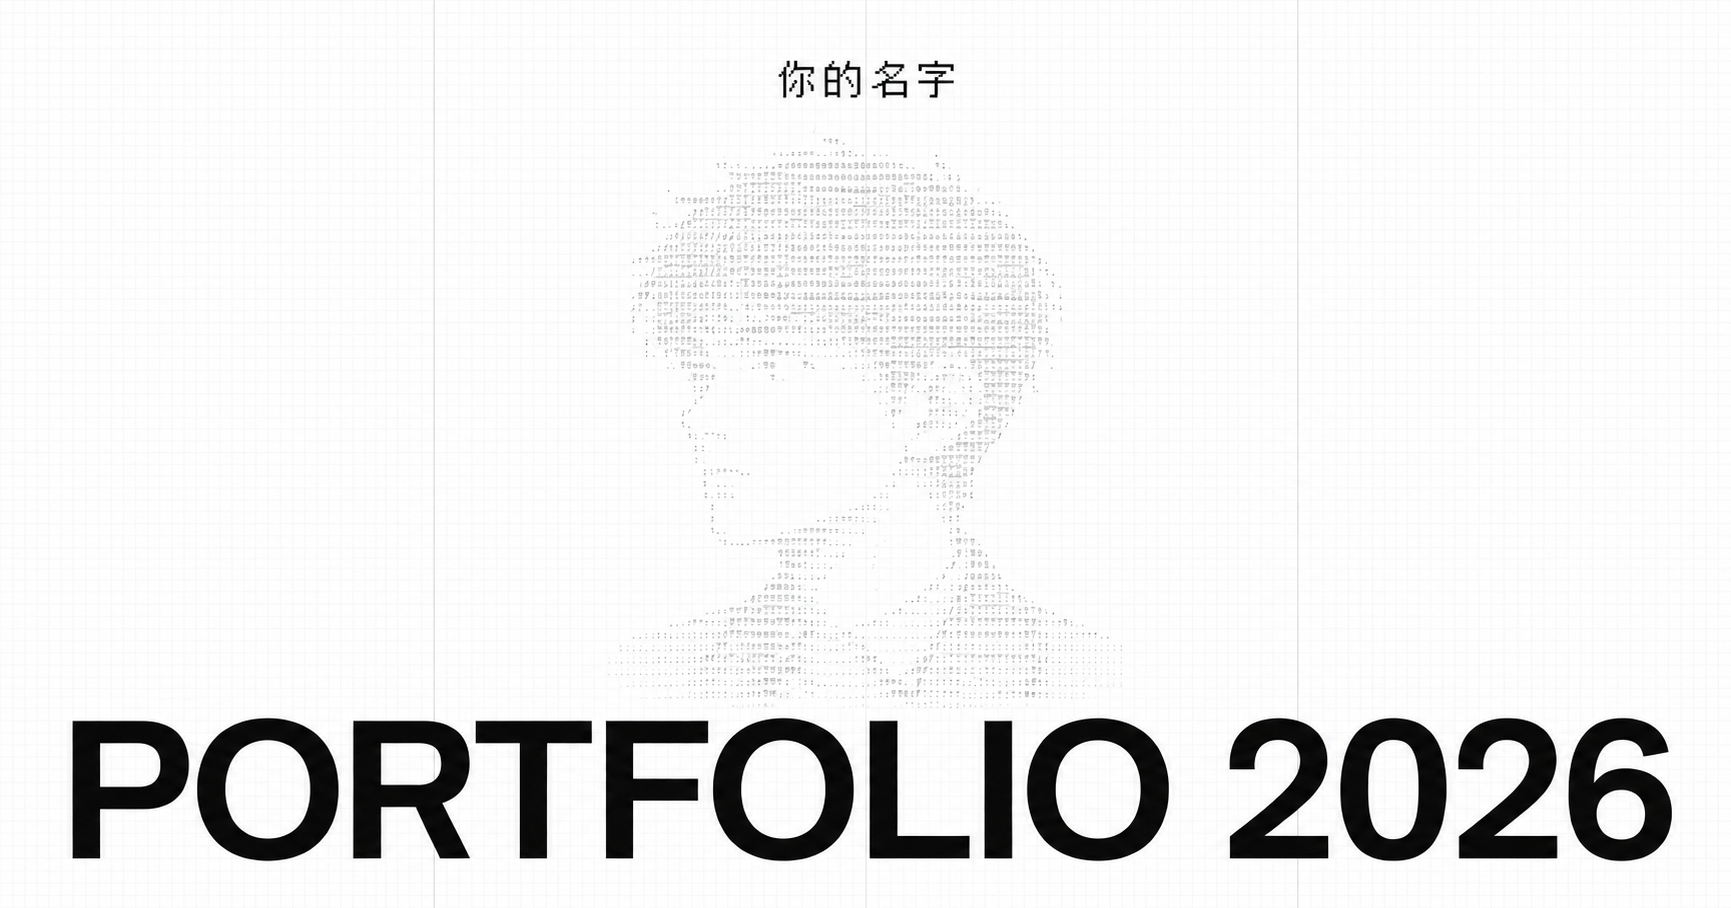
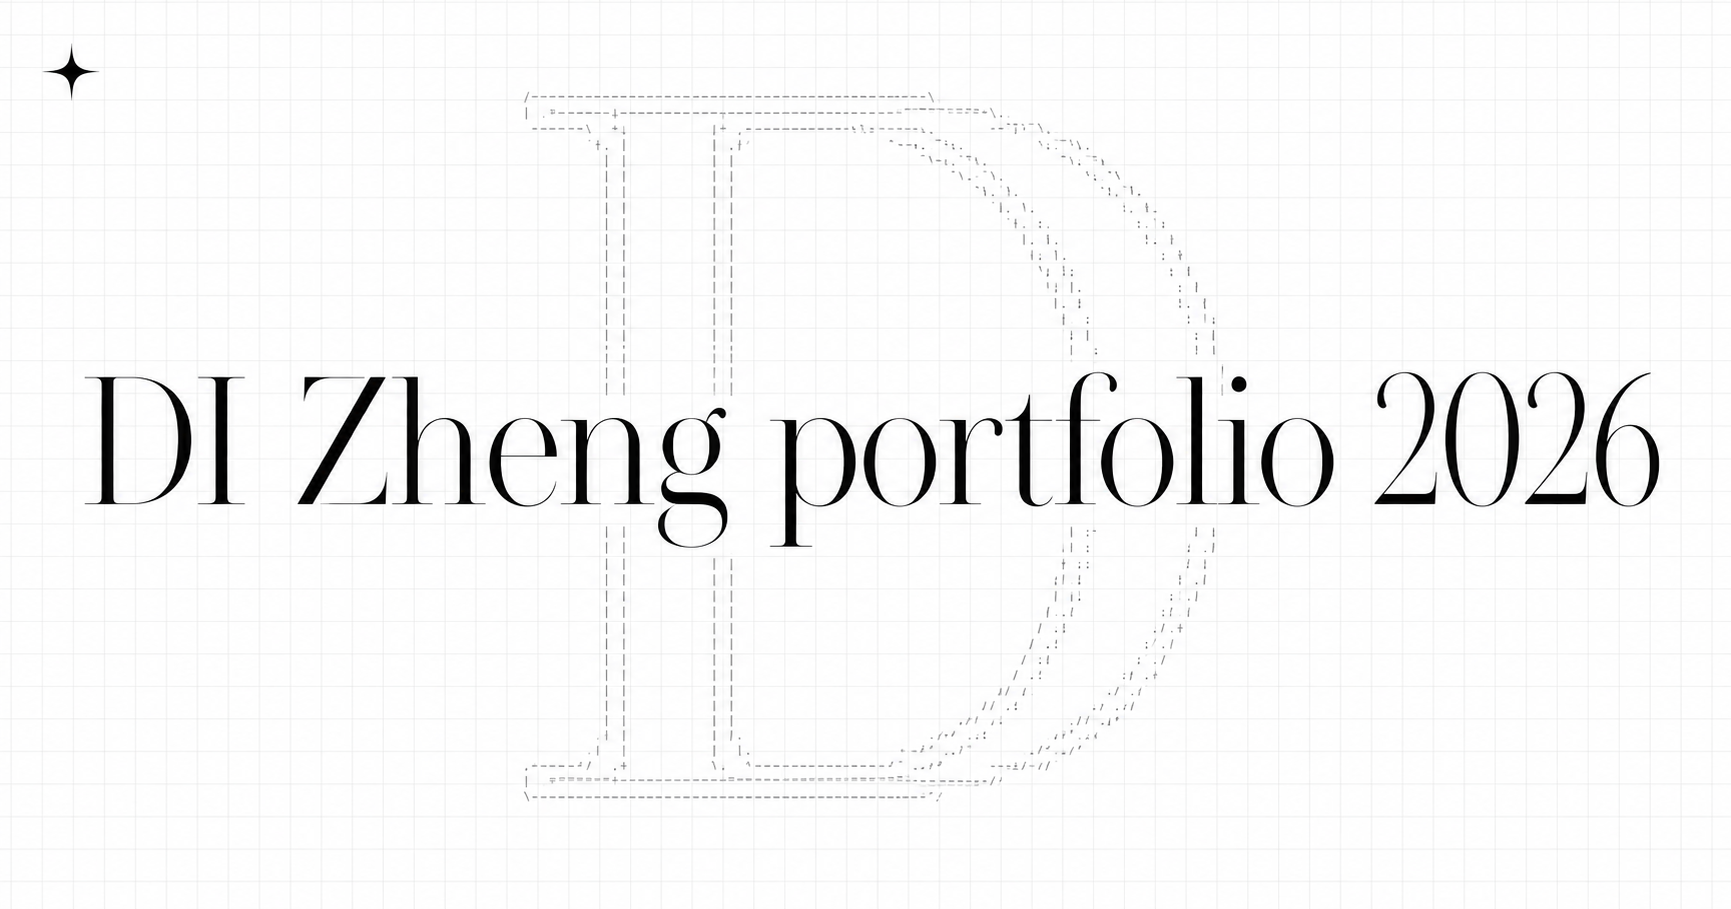
Refine DI Zheng branding and grid navigation

Changed region(s): [[0.0312, 0.0617, 0.9671, 0.9559], [0.6239, 0.4009, 0.6551, 0.4317], [0.0312, 0.0617, 0.0624, 0.0925]]

diff --git a/app/page.tsx b/app/page.tsx
@@ -41,13 +41,13 @@ export default function Home(){
   return <main><AsciiLogo/>
     <header className="site-header">
       <button className="wordmark" onClick={()=>go("projects")}><i/>{profile.name}</button><span/>
-      <button className={view==="photos"?"active":""} onClick={()=>go("photos")}>photos</button>
+      <button className={view==="photos"?"active":""} onClick={()=>go("photos")}>work</button>
       <button className={view==="about"?"active":""} onClick={()=>go("about")}>about</button>
     </header>
 
     {view==="projects"&&<>
-      <section className="hero"><h1>swiss based web and<br/>brand designer. currently open<br/>for a new position.</h1><a className="scroll-cue" href="#projects"><span>scroll down</span><b>↓</b></a></section>
-      <section id="projects" className="project-list"><p className="section-label">projects</p>
+      <section className="hero"><h1><span>DI Zheng</span><span>portfolio</span><span>2026</span></h1><a className="scroll-cue" href="#projects"><span>scroll down</span><b>↓</b></a></section>
+      <section id="projects" className="project-list"><p className="section-label">work</p>
         {projects.map((project,pIndex)=><article className="project" key={project.id}>
           <div className="project-bar"><h2>{project.title}</h2><strong>{project.services}</strong><b>{project.year}</b><span>×</span></div>
           <div className="project-copy"><p>{project.description}</p><dl><dt>client:</dt><dd>{project.client}</dd><dt>website:</dt><dd><a href={project.link} target="_blank" rel="noreferrer">visit project ↗</a></dd><dt>photos:</dt><dd>your name</dd></dl></div>
@@ -58,7 +58,7 @@ export default function Home(){
       </section>
     </>}
 
-    {view==="photos"&&<section className="archive"><div className="archive-intro"><h1>photo archive</h1><p>fragments, observations<br/>and work in progress.</p></div><div className="archive-grid">{projects.flatMap(p=>[...p.images,...p.images]).map((src,i)=><figure key={`${src}-${i}`}><img src={src} alt={`archive ${i+1}`} loading="lazy"/><figcaption>ph_{String(i+1).padStart(3,"0")}.jpg</figcaption></figure>)}</div></section>}
+    {view==="photos"&&<section className="archive"><div className="archive-intro"><h1>work archive</h1><p>selected projects,<br/>details and experiments.</p></div><div className="archive-grid">{projects.flatMap(p=>[...p.images,...p.images]).map((src,i)=><figure key={`${src}-${i}`}><img src={src} alt={`archive ${i+1}`} loading="lazy"/><figcaption>work_{String(i+1).padStart(3,"0")}.jpg</figcaption></figure>)}</div></section>}
 
     {view==="about"&&<section className="about-screen"><div><p>about</p><h1>i build identities,<br/>images and digital<br/>experiences.</h1></div><aside><p>这是你的个人介绍区域。可以在 content.ts 中修改姓名、项目、联系方式与全部图片。</p><a href={`mailto:${profile.email}`}>{profile.email}</a><a href={profile.instagram}>instagram ↗</a></aside></section>}
     <footer><button onClick={()=>window.scrollTo({top:0,behavior:"smooth"})}>↑ top</button><span>design & development by {profile.name}</span><span>©{new Date().getFullYear()}</span></footer>

diff --git a/app/globals.css b/app/globals.css
@@ -5,3 +5,4 @@
 .ascii-logo{position:fixed;z-index:0;left:50%;top:50%;width:min(66vw,760px);aspect-ratio:1;display:grid;place-items:center;transform:translate(-50%,-50%);pointer-events:none;overflow:visible;opacity:.27;mix-blend-mode:multiply}.ascii-logo pre{margin:0;width:max-content;white-space:pre;font-family:"Courier New",monospace;font-size:clamp(4px,.46vw,7px);line-height:.72;letter-spacing:0;color:#000;animation:logo-spin 54s linear infinite;transform-origin:50% 50%;will-change:transform}@keyframes logo-spin{to{transform:rotate(360deg)}}main>section,main>.project-list,main>footer{position:relative;z-index:1}@media(max-width:760px){.ascii-logo{width:94vw;opacity:.22}.ascii-logo pre{font-size:1.05vw}}@media(prefers-reduced-motion:reduce){.ascii-logo pre{animation:none!important}}
 .ascii-logo{opacity:.3;perspective:1100px}.ascii-logo pre{animation-name:logo-flip;transform-style:preserve-3d}@keyframes logo-flip{from{transform:rotateY(0deg)}to{transform:rotateY(360deg)}}
 .ascii-logo{width:min(88vw,1080px)}.ascii-logo pre{font-size:clamp(7px,.78vw,12px)}@media(max-width:760px){.ascii-logo{width:100vw}.ascii-logo pre{font-size:1.8vw}}
+.site-header{padding:0;overflow:hidden}.site-header>*{min-width:0}.site-header button{width:100%;height:64px;padding:0 12px;overflow:hidden;white-space:nowrap;text-align:left}.wordmark i{width:18px;height:18px;margin-right:7px;clip-path:polygon(50% 0,57% 41%,100% 50%,57% 59%,50% 100%,43% 59%,0 50%,43% 41%)}.hero h1{display:flex;flex-direction:column;align-items:flex-start;font-family:var(--font-display),"Bodoni Moda","Times New Roman",serif;font-size:clamp(6.8rem,15vw,18rem);line-height:.69;letter-spacing:-.075em;font-weight:500;font-style:italic}.hero h1 span{display:block;max-width:100%}.hero h1 span:nth-child(2){margin-left:10vw}.hero h1 span:nth-child(3){margin-left:48vw}.section-label{font-family:"Courier New",monospace}@media(max-width:760px){.site-header button{height:52px;padding:0 8px}.wordmark i{width:14px;height:14px;margin-right:5px}.hero h1{font-size:21vw;line-height:.76}.hero h1 span:nth-child(2){margin-left:4vw}.hero h1 span:nth-child(3){margin-left:44vw}}

diff --git a/app/layout.tsx b/app/layout.tsx
@@ -1,10 +1,12 @@
 import type { Metadata } from "next";
+import { Bodoni_Moda } from "next/font/google";
 import "./globals.css";
+const displayFont=Bodoni_Moda({subsets:["latin"],variable:"--font-display"});
 export const metadata: Metadata = {
-  metadataBase: new URL("https://di-creative-portfolio.agile-bow-9238.chatgpt.site"),
-  title:"你的名字 — 作品集",
-  description:"个人设计、影像与创意作品集。",
-  openGraph:{title:"你的名字 — 作品集",description:"个人设计、影像与创意作品集。",type:"website",images:["/og.png"]},
-  twitter:{card:"summary_large_image",title:"你的名字 — 作品集",description:"个人设计、影像与创意作品集。",images:["/og.png"]}
+  metadataBase: new URL("https://di-creative-portfolio.deane1206.chatgpt.site"),
+  title:"DI ZHENG — Portfolio 2026",
+  description:"DI Zheng design portfolio 2026.",
+  openGraph:{title:"DI ZHENG — Portfolio 2026",description:"DI Zheng design portfolio 2026.",type:"website",images:["/og.png"]},
+  twitter:{card:"summary_large_image",title:"DI ZHENG — Portfolio 2026",description:"DI Zheng design portfolio 2026.",images:["/og.png"]}
 };
-export default function RootLayout({children}:Readonly<{children:React.ReactNode}>){return <html lang="zh-CN"><body>{children}</body></html>}
+export default function RootLayout({children}:Readonly<{children:React.ReactNode}>){return <html lang="zh-CN"><body className={displayFont.variable}>{children}</body></html>}

diff --git a/app/content.ts b/app/content.ts
@@ -1,4 +1,4 @@
-export const profile = { name: "你的名字", role: "独立设计师与创意工作者", location: "现居中国，接受新的合作机会。", email: "hello@example.com", instagram: "https://instagram.com/" };
+export const profile = { name: "DI ZHENG", role: "Independent designer and creative", location: "Portfolio 2026", email: "hello@example.com", instagram: "https://instagram.com/" };
 
 export const projects = [
   { id:"01", title:"物外", services:"品牌设计，艺术指导", year:"2026", description:"为一个关注日常器物与自然材料的品牌建立视觉身份。克制的版式与温暖的影像共同构成一套安静、清晰且可持续生长的设计语言。", client:"个人项目", link:"https://example.com", images:["https://images.unsplash.com/photo-1494438639946-1ebd1d20bf85?auto=format&fit=crop&w=1800&q=88","https://images.unsplash.com/photo-1497215728101-856f4ea42174?auto=format&fit=crop&w=1800&q=88","https://images.unsplash.com/photo-1556742049-0cfed4f6a45d?auto=format&fit=crop&w=1800&q=88"] },
